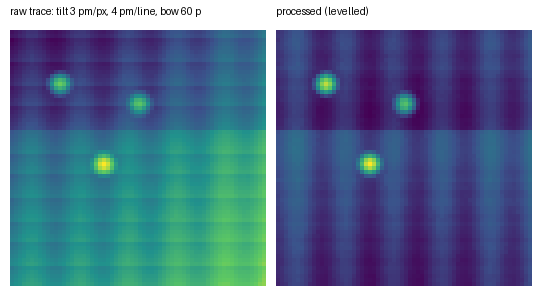
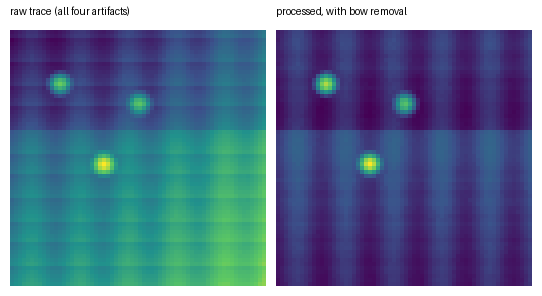
image.level_bow: the bow along x taken out of the levelled image; twin artifact results

Changed region(s): [[0.0886, 0.0, 0.3838, 0.0608], [0.5904, 0.0304, 0.7675, 0.0608]]

diff --git a/docs/image-processing.md b/docs/image-processing.md
@@ -141,4 +141,6 @@ Images up to 256 x 256 (a region holds 64 KiB; the mask is bytes).
 
 ## What the twin's image artifacts showed (2026-11-03)
 
-The twin can now put a tilt, a bow and line offsets into the sample (`sim/board.cho` `artifacts`, `fl[24]` to `fl[27]`; `scan_twin` arguments 7 to 10), and mode 7 writes the raw trace as a PNG, so the picture before and after the pipeline can be set side by side (`docs/img-artifacts.png`). With a tilt of 3 pm per pixel and 4 pm per line, a bow of 60 pm and line offsets of up to 30 pm, on the high-speed profile: roughness and Rz come out at 48.1 / 216 pm against 46.4 / 192 pm for the clean scan, the grating at 98.1 pm (99.0 clean), all three particles found at the same places, and the step at **142.2 pm against 155.5**: the line offsets are the step's noise (the same limit as in the I5 test). The bow is only partly removed: the levelling takes a plane and line offsets, not a curve. A fit of a quadratic along x is the next piece. Twin only.
+The twin can now put a tilt, a bow and line offsets into the sample (`sim/board.cho` `artifacts`, `fl[24]` to `fl[27]`; `scan_twin` arguments 7 to 10), and mode 7 writes the raw trace as a PNG, so the picture before and after the pipeline can be set side by side (`docs/img-artifacts.png`). The levelling gained a bow step (`image.level_bow`: a quadratic fitted to the column medians, subtracted after the plane and the line offsets; tested on a synthetic 60 pm bow under a grating, 60 pm before and under 8 after).
+
+On the high-speed profile with a tilt of 3 pm per pixel and 4 pm per line, a bow of 60 pm and line offsets of up to 30 pm: Ra, Rq, Rz **46.3, 66.1, 192.4 pm against 46.3, 65.9, 192.4 for the clean scan** (without the bow step Rq was 67.3 and Rz 216), the grating 100.1 pm against 98.8, all three particles at the same places. The step reads **142.2 pm against 155.5**: that is the line offsets, not the bow (a bow alone gives 151.4), the same limit as in the I5 test (the step is measured from line medians, so an offset of a line is its noise; seven lines above the edge and offsets of 30 pm). Whether a different estimator, for instance one that takes the offsets out first, does better is untested. Twin only.
